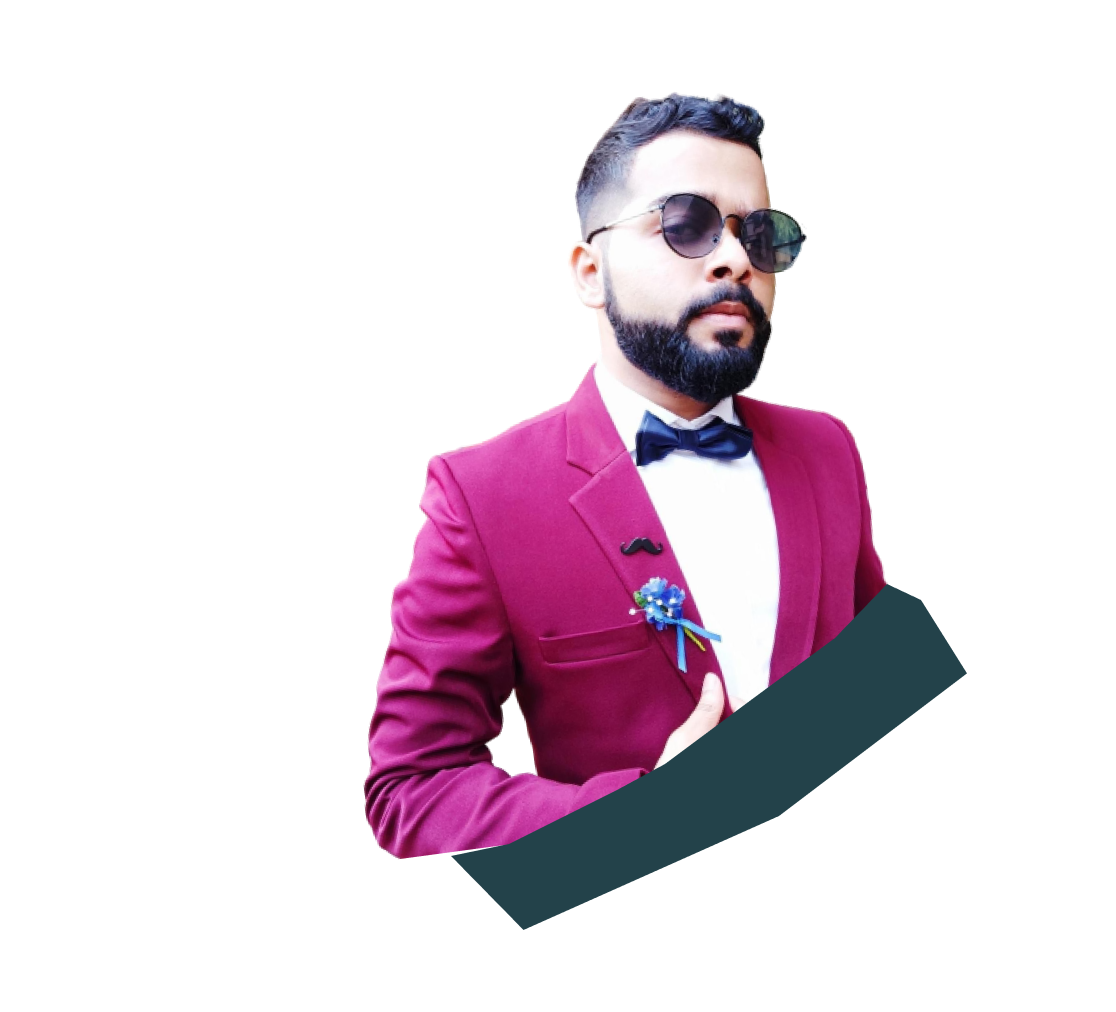
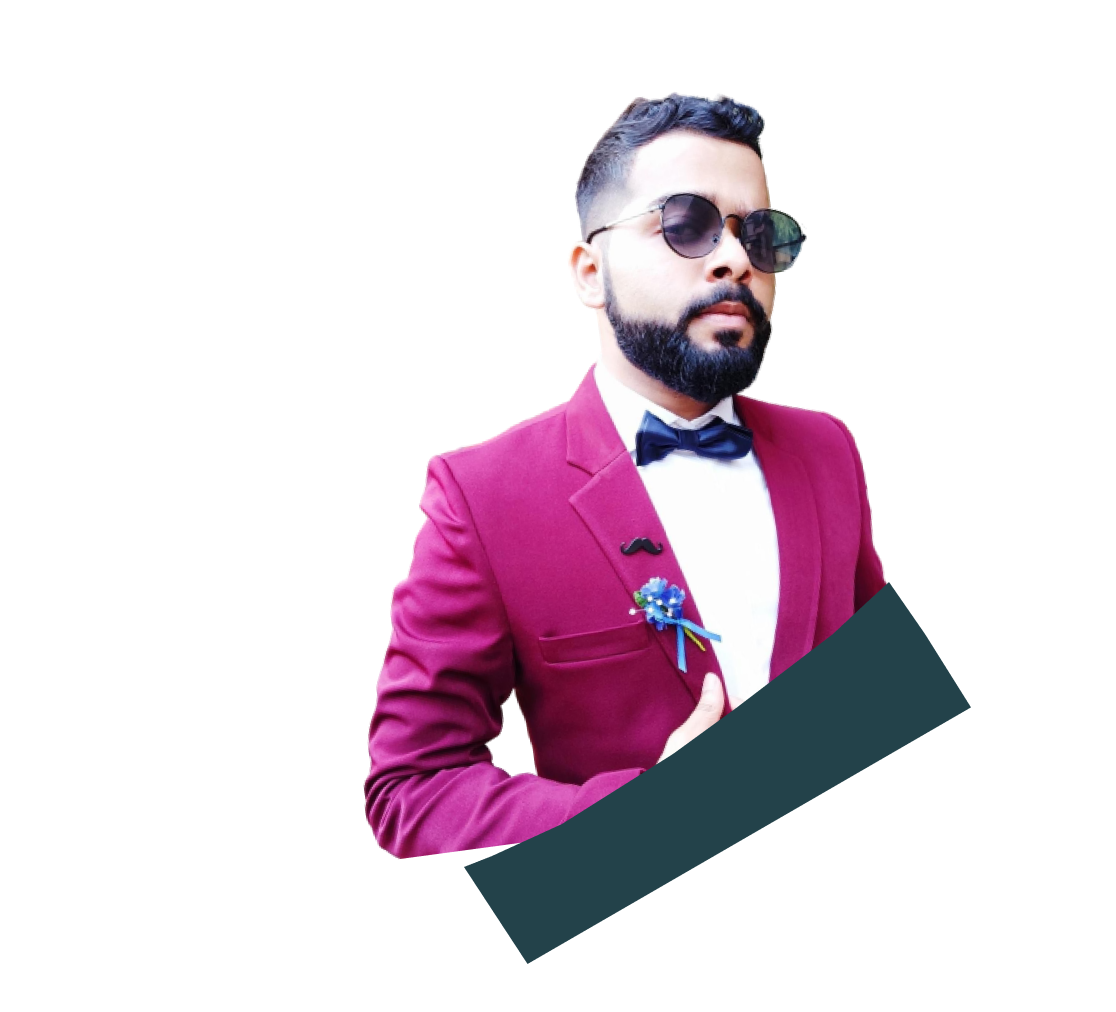
final

diff --git a/style-svg.css b/style-svg.css
@@ -97,7 +97,7 @@ image {
   to {
     fill: url(#img1);
     opacity: 1;
-
+    background-image: none;
   }
 }
 
@@ -118,19 +118,23 @@ image {
     pointer-events: none;
   }
 
-
-
-
   @keyframes inner {
 
     from {
-      fill: url(#img1);
-      opacity: 1;
+      fill: transparent;
+      opacity: 0;
+      background-image: none;
+
 
     }
 
     to {
-      fill: url(#img1);
+      fill: transparent;
+      background-image: url("./Group\ 1.png");
+
+      background-position: center;
+      background-size: 90%;
+      background-repeat: no-repeat;
       opacity: 1;
 
     }

diff --git a/index.html b/index.html
@@ -266,7 +266,7 @@
 
   <script>
 
-
+    window.onresize = function () { location.reload(); }
 
     function myFunction(x) {
       if (x.matches) { // If media query matches
